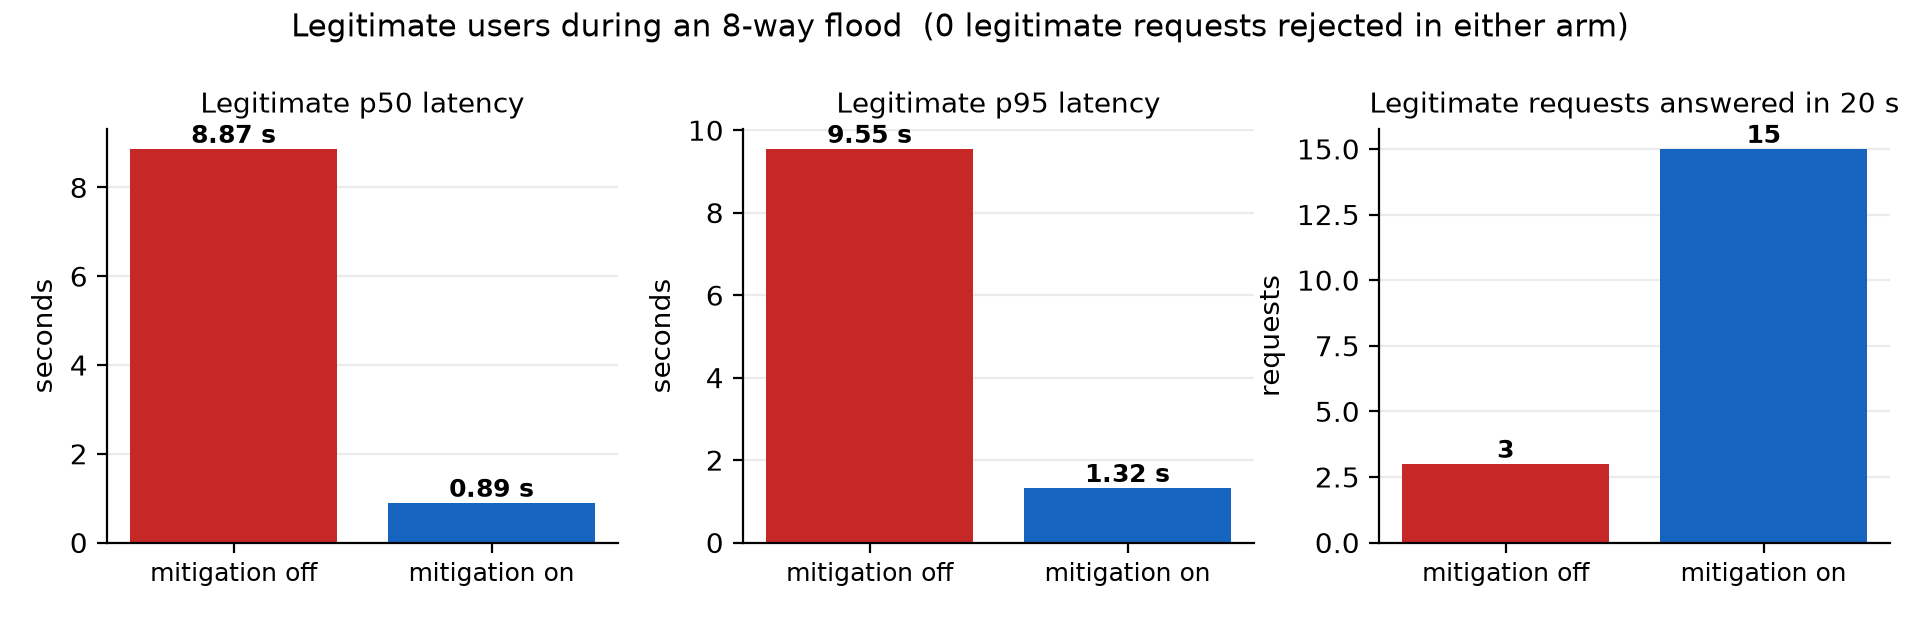
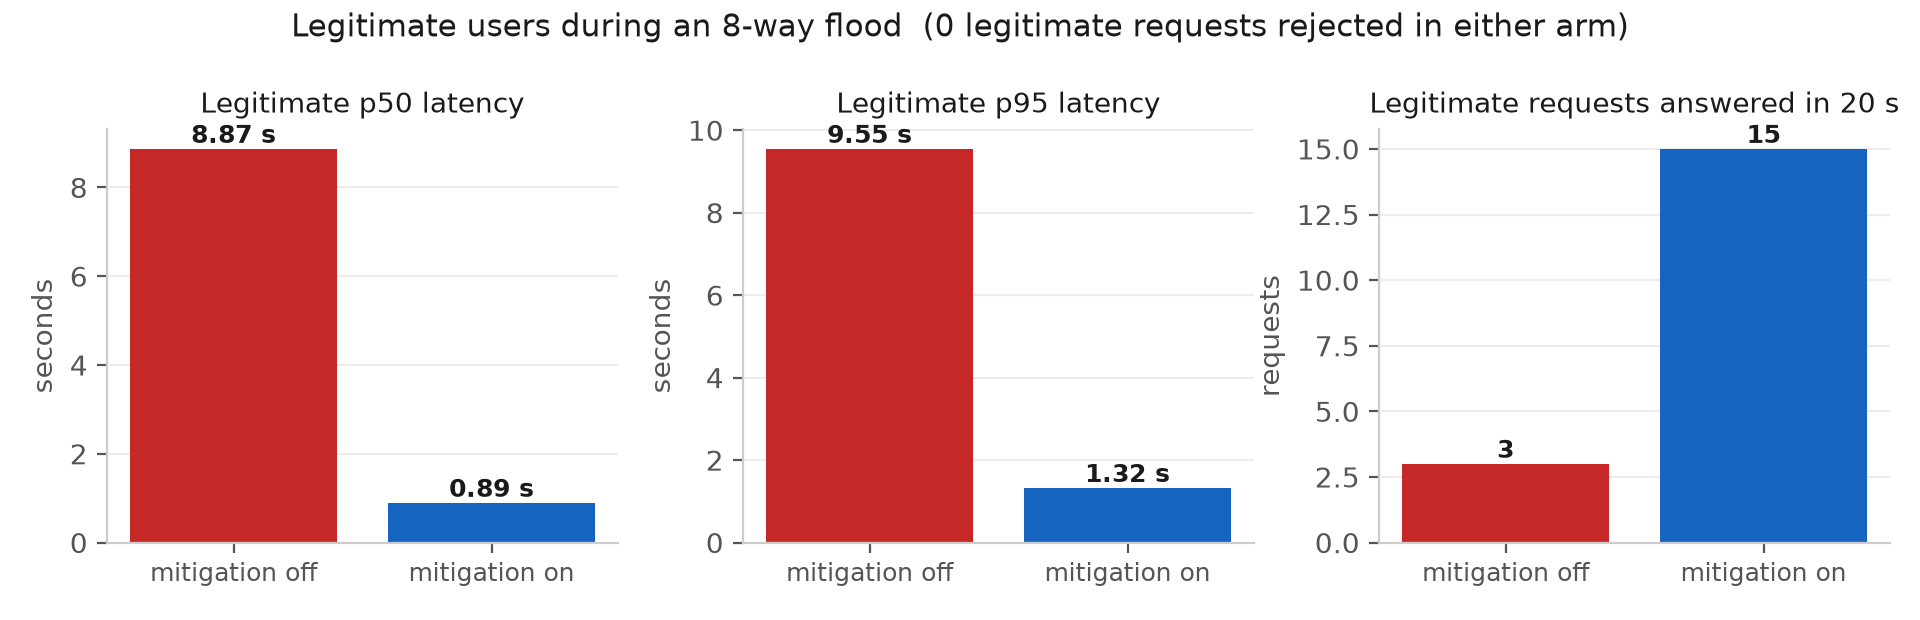
Generate the report figures in a dark theme as well as light
The slide deck sits on a dark grey background, where the light figures would
appear as three white boxes. Same data and same code path, two palettes:
figures/ for the report, figures/dark/ for the deck.

The dark palette is deliberately desaturated. Saturated primaries on a dark
background vibrate and read as decoration rather than as data.

diff --git a/report/make_figures.py b/report/make_figures.py
@@ -1,14 +1,19 @@
-"""Generate the report's figures from the measured run data.
+"""Generate the figures from the measured run data.
 
-    python report/make_figures.py
+    python report/make_figures.py            # both themes
+    python report/make_figures.py --theme dark
 
 Reads ``report/data/t4_runs.json`` -- the transcribed output of the two
-gateway runs on the T4 -- and writes the PNGs the report embeds. Nothing here
-invents a number: every value plotted is present in that file, which records
-the notebook cell it came from.
+gateway runs on the T4 -- and writes the PNGs that the report and the slide
+deck embed. Nothing here invents a number: every value plotted is present in
+that file, which records the notebook cell it came from.
 
-Three figures, each answering a question the reader should be allowed to
-check rather than take on trust:
+Two themes, same data. The light set goes in ``figures/`` for the report; the
+dark set goes in ``figures/dark/`` so the charts sit on the deck's dark grey
+background without a white box around them.
+
+Three figures, each answering a question the reader should be allowed to check
+rather than take on trust:
 
 1. Did legitimate users get a better service? Latency *and* throughput, side
    by side, because latency alone cannot distinguish protection from denial:
@@ -22,8 +27,10 @@ check rather than take on trust:
 
 from __future__ import annotations
 
+import argparse
 import json
 import os
+from dataclasses import dataclass
 
 import matplotlib
 
@@ -32,13 +39,58 @@ import matplotlib.pyplot as plt  # noqa: E402
 
 HERE = os.path.dirname(os.path.abspath(__file__))
 DATA = os.path.join(HERE, "data", "t4_runs.json")
-OUT = os.path.join(HERE, "figures")
 
-OFF = "#c62828"
-ON = "#1565c0"
-LEGIT = "#2e7d32"
-ATTACKER = "#ef6c00"
-GREY = "#9e9e9e"
+
+@dataclass(frozen=True)
+class Theme:
+    name: str
+    out_dir: str
+    bg: str
+    fg: str
+    muted: str
+    grid: str
+    off: str
+    on: str
+    legit: str
+    attacker: str
+    rejected: str
+    served_text: str
+    font: str
+
+
+LIGHT = Theme(
+    name="light",
+    out_dir=os.path.join(HERE, "figures"),
+    bg="#ffffff",
+    fg="#1a1a1a",
+    muted="#555555",
+    grid="#cccccc",
+    off="#c62828",
+    on="#1565c0",
+    legit="#2e7d32",
+    attacker="#ef6c00",
+    rejected="#9e9e9e",
+    served_text="#ffffff",
+    font="DejaVu Sans",
+)
+
+# Desaturated on purpose. On a dark slide, saturated primaries vibrate and
+# read as decoration rather than data.
+DARK = Theme(
+    name="dark",
+    out_dir=os.path.join(HERE, "figures", "dark"),
+    bg="#2e3033",
+    fg="#e8e9ea",
+    muted="#a8adb2",
+    grid="#4a4e52",
+    off="#b5544a",
+    on="#5b8db8",
+    legit="#6f9b6f",
+    attacker="#c08a4a",
+    rejected="#63686d",
+    served_text="#f2f3f4",
+    font="Aptos",
+)
 
 
 def load() -> dict[str, dict]:
@@ -47,7 +99,24 @@ def load() -> dict[str, dict]:
     return {run["arm"]: run for run in payload["runs"]}
 
 
-def _annotate(ax, bars, values, fmt="{:.3g}", suffix=""):
+def _apply(theme: Theme) -> None:
+    plt.rcParams.update(
+        {
+            "font.family": [theme.font, "DejaVu Sans"],
+            "figure.facecolor": theme.bg,
+            "axes.facecolor": theme.bg,
+            "savefig.facecolor": theme.bg,
+            "text.color": theme.fg,
+            "axes.labelcolor": theme.muted,
+            "axes.edgecolor": theme.grid,
+            "xtick.color": theme.muted,
+            "ytick.color": theme.muted,
+            "grid.color": theme.grid,
+        }
+    )
+
+
+def _annotate(ax, bars, values, theme, fmt="{:.3g}", suffix=""):
     for bar, value in zip(bars, values):
         ax.annotate(
             fmt.format(value) + suffix,
@@ -56,61 +125,62 @@ def _annotate(ax, bars, values, fmt="{:.3g}", suffix=""):
             va="bottom",
             fontsize=9,
             fontweight="bold",
+            color=theme.fg,
         )
 
 
 def _style(ax):
-    ax.grid(alpha=0.25, axis="y")
+    ax.grid(alpha=0.35, axis="y")
     ax.set_axisbelow(True)
     for side in ("top", "right"):
         ax.spines[side].set_visible(False)
 
 
-def legit_protection(runs: dict[str, dict]) -> str:
-    """Latency and throughput together. Neither is honest on its own."""
-    arms = ["off", "on"]
-    names = ["mitigation off", "mitigation on"]
-    colours = [OFF, ON]
-
-    fig, axes = plt.subplots(1, 3, figsize=(9.6, 3.1))
-
-    p50 = [runs[a]["legit"]["p50_s"] for a in arms]
-    bars = axes[0].bar(names, p50, color=colours)
-    _annotate(axes[0], bars, p50, "{:.2f}", " s")
-    axes[0].set_title("Legitimate p50 latency", fontsize=10)
-    axes[0].set_ylabel("seconds")
-
-    p95 = [runs[a]["legit"]["p95_s"] for a in arms]
-    bars = axes[1].bar(names, p95, color=colours)
-    _annotate(axes[1], bars, p95, "{:.2f}", " s")
-    axes[1].set_title("Legitimate p95 latency", fontsize=10)
-    axes[1].set_ylabel("seconds")
-
-    served = [runs[a]["legit"]["requests"] for a in arms]
-    bars = axes[2].bar(names, served, color=colours)
-    _annotate(axes[2], bars, served, "{:.0f}")
-    axes[2].set_title("Legitimate requests answered in 20 s", fontsize=10)
-    axes[2].set_ylabel("requests")
-
-    for ax in axes:
-        _style(ax)
-        plt.setp(ax.get_xticklabels(), fontsize=9)
-    # Latency fell and throughput rose at the same time, with no legitimate
-    # request rejected in either arm. Stated on the figure because a latency
-    # improvement bought by shedding users would look identical otherwise.
-    fig.suptitle(
-        "Legitimate users during an 8-way flood  (0 legitimate requests rejected in either arm)",
-        fontsize=11,
-    )
+def _save(fig, theme: Theme, filename: str) -> str:
+    os.makedirs(theme.out_dir, exist_ok=True)
+    path = os.path.join(theme.out_dir, filename)
     fig.tight_layout()
-    os.makedirs(OUT, exist_ok=True)
-    path = os.path.join(OUT, "fig1_legit_protection.png")
     fig.savefig(path, dpi=200)
     plt.close(fig)
     return path
 
 
-def separation(runs: dict[str, dict]) -> str:
+def legit_protection(runs: dict[str, dict], theme: Theme) -> str:
+    """Latency and throughput together. Neither is honest on its own."""
+    arms = ["off", "on"]
+    names = ["mitigation off", "mitigation on"]
+    colours = [theme.off, theme.on]
+
+    fig, axes = plt.subplots(1, 3, figsize=(9.6, 3.1))
+
+    for ax, values, title, unit, fmt, suffix in (
+        (axes[0], [runs[a]["legit"]["p50_s"] for a in arms],
+         "Legitimate p50 latency", "seconds", "{:.2f}", " s"),
+        (axes[1], [runs[a]["legit"]["p95_s"] for a in arms],
+         "Legitimate p95 latency", "seconds", "{:.2f}", " s"),
+        (axes[2], [runs[a]["legit"]["requests"] for a in arms],
+         "Legitimate requests answered in 20 s", "requests", "{:.0f}", ""),
+    ):
+        bars = ax.bar(names, values, color=colours)
+        _annotate(ax, bars, values, theme, fmt, suffix)
+        ax.set_title(title, fontsize=10, color=theme.fg)
+        ax.set_ylabel(unit)
+        _style(ax)
+        plt.setp(ax.get_xticklabels(), fontsize=9)
+
+    # Latency fell and throughput rose at the same time, with no legitimate
+    # request rejected in either arm. Stated on the figure because a latency
+    # improvement bought by shedding users would look identical otherwise.
+    fig.suptitle(
+        "Legitimate users during an 8-way flood  "
+        "(0 legitimate requests rejected in either arm)",
+        fontsize=11,
+        color=theme.fg,
+    )
+    return _save(fig, theme, "fig1_legit_protection.png")
+
+
+def separation(runs: dict[str, dict], theme: Theme) -> str:
     """Whether cheap and expensive traffic were charged differently."""
     arms = ["off", "on"]
     names = ["mitigation off", "mitigation on"]
@@ -122,11 +192,11 @@ def separation(runs: dict[str, dict]) -> str:
     attacker = [runs[a]["attacker"]["p95_s"] for a in arms]
 
     bars_l = ax.bar([p - width / 2 for p in positions], legit, width,
-                    label="legitimate (32-token replies)", color=LEGIT)
+                    label="legitimate (32-token replies)", color=theme.legit)
     bars_a = ax.bar([p + width / 2 for p in positions], attacker, width,
-                    label="attacker (512-token replies)", color=ATTACKER)
-    _annotate(ax, bars_l, legit, "{:.2f}", " s")
-    _annotate(ax, bars_a, attacker, "{:.2f}", " s")
+                    label="attacker (512-token replies)", color=theme.attacker)
+    _annotate(ax, bars_l, legit, theme, "{:.2f}", " s")
+    _annotate(ax, bars_a, attacker, theme, "{:.2f}", " s")
 
     ax.set_xticks(list(positions))
     ax.set_xticklabels(names, fontsize=9)
@@ -134,35 +204,33 @@ def separation(runs: dict[str, dict]) -> str:
     ax.set_title(
         "Unmitigated, a cheap request waits as long as an expensive one",
         fontsize=10.5,
+        color=theme.fg,
     )
     # Headroom so the legend sits in the gap between the two groups instead
     # of over the tallest bar's label.
     ax.set_ylim(0, max(legit + attacker) * 1.32)
-    ax.legend(fontsize=8.5, loc="upper center")
+    legend = ax.legend(fontsize=8.5, loc="upper center", facecolor=theme.bg,
+                       edgecolor=theme.grid)
+    for text in legend.get_texts():
+        text.set_color(theme.fg)
     _style(ax)
-    fig.tight_layout()
-    os.makedirs(OUT, exist_ok=True)
-    path = os.path.join(OUT, "fig2_cost_separation.png")
-    fig.savefig(path, dpi=200)
-    plt.close(fig)
-    return path
+    return _save(fig, theme, "fig2_cost_separation.png")
 
 
-def outcomes(runs: dict[str, dict]) -> str:
+def outcomes(runs: dict[str, dict], theme: Theme) -> str:
     """Counts, so "served" cannot be confused with "not rejected"."""
     columns = []
-    for arm, arm_name in (("off", "off"), ("on", "on")):
+    for arm in ("off", "on"):
         for label in ("legit", "attacker"):
             entry = runs[arm][label]
             served = sum(
                 count for status, count in entry["statuses"].items() if status == "200"
             )
-            rejected = entry["requests"] - served
             columns.append(
                 (
-                    f"{label}\nmitigation {arm_name}",
+                    f"{label}\nmitigation {arm}",
                     served,
-                    rejected,
+                    entry["requests"] - served,
                     entry["reasons"],
                 )
             )
@@ -172,33 +240,45 @@ def outcomes(runs: dict[str, dict]) -> str:
     rejected = [c[2] for c in columns]
 
     fig, ax = plt.subplots(figsize=(6.6, 3.4))
-    ax.bar(names, served, label="answered 200", color=LEGIT)
-    ax.bar(names, rejected, bottom=served, label="rejected 429", color=GREY)
-    for index, (name, ok, bad, reasons) in enumerate(columns):
+    ax.bar(names, served, label="answered 200", color=theme.legit)
+    ax.bar(names, rejected, bottom=served, label="rejected 429", color=theme.rejected)
+    for index, (_, ok, bad, reasons) in enumerate(columns):
         ax.annotate(f"{ok}", (index, ok / 2), ha="center", va="center",
-                    fontsize=9, color="white", fontweight="bold")
+                    fontsize=9, color=theme.served_text, fontweight="bold")
         if bad:
             reason = ", ".join(reasons) or "rejected"
             ax.annotate(f"{bad}\n{reason}", (index, ok + bad / 2), ha="center",
-                        va="center", fontsize=7.5)
-    ax.axvline(1.5, color="#cccccc", lw=1)
+                        va="center", fontsize=7.5, color=theme.fg)
+    ax.axvline(1.5, color=theme.grid, lw=1)
     ax.set_ylabel("requests in 20 s")
-    ax.set_title("Where every request ended up", fontsize=10.5)
-    ax.legend(fontsize=8.5)
+    ax.set_title("Where every request ended up", fontsize=10.5, color=theme.fg)
+    legend = ax.legend(fontsize=8.5, facecolor=theme.bg, edgecolor=theme.grid)
+    for text in legend.get_texts():
+        text.set_color(theme.fg)
     _style(ax)
     plt.setp(ax.get_xticklabels(), fontsize=8.5)
-    fig.tight_layout()
-    os.makedirs(OUT, exist_ok=True)
-    path = os.path.join(OUT, "fig3_outcomes.png")
-    fig.savefig(path, dpi=200)
-    plt.close(fig)
-    return path
+    return _save(fig, theme, "fig3_outcomes.png")
+
+
+def build(theme: Theme) -> list[str]:
+    _apply(theme)
+    runs = load()
+    return [
+        legit_protection(runs, theme),
+        separation(runs, theme),
+        outcomes(runs, theme),
+    ]
 
 
 def main() -> None:
-    runs = load()
-    for path in (legit_protection(runs), separation(runs), outcomes(runs)):
-        print("wrote", path)
+    parser = argparse.ArgumentParser(description=__doc__)
+    parser.add_argument("--theme", choices=("light", "dark", "both"), default="both")
+    args = parser.parse_args()
+
+    themes = {"light": [LIGHT], "dark": [DARK], "both": [LIGHT, DARK]}[args.theme]
+    for theme in themes:
+        for path in build(theme):
+            print("wrote", path)
 
 
 if __name__ == "__main__":
